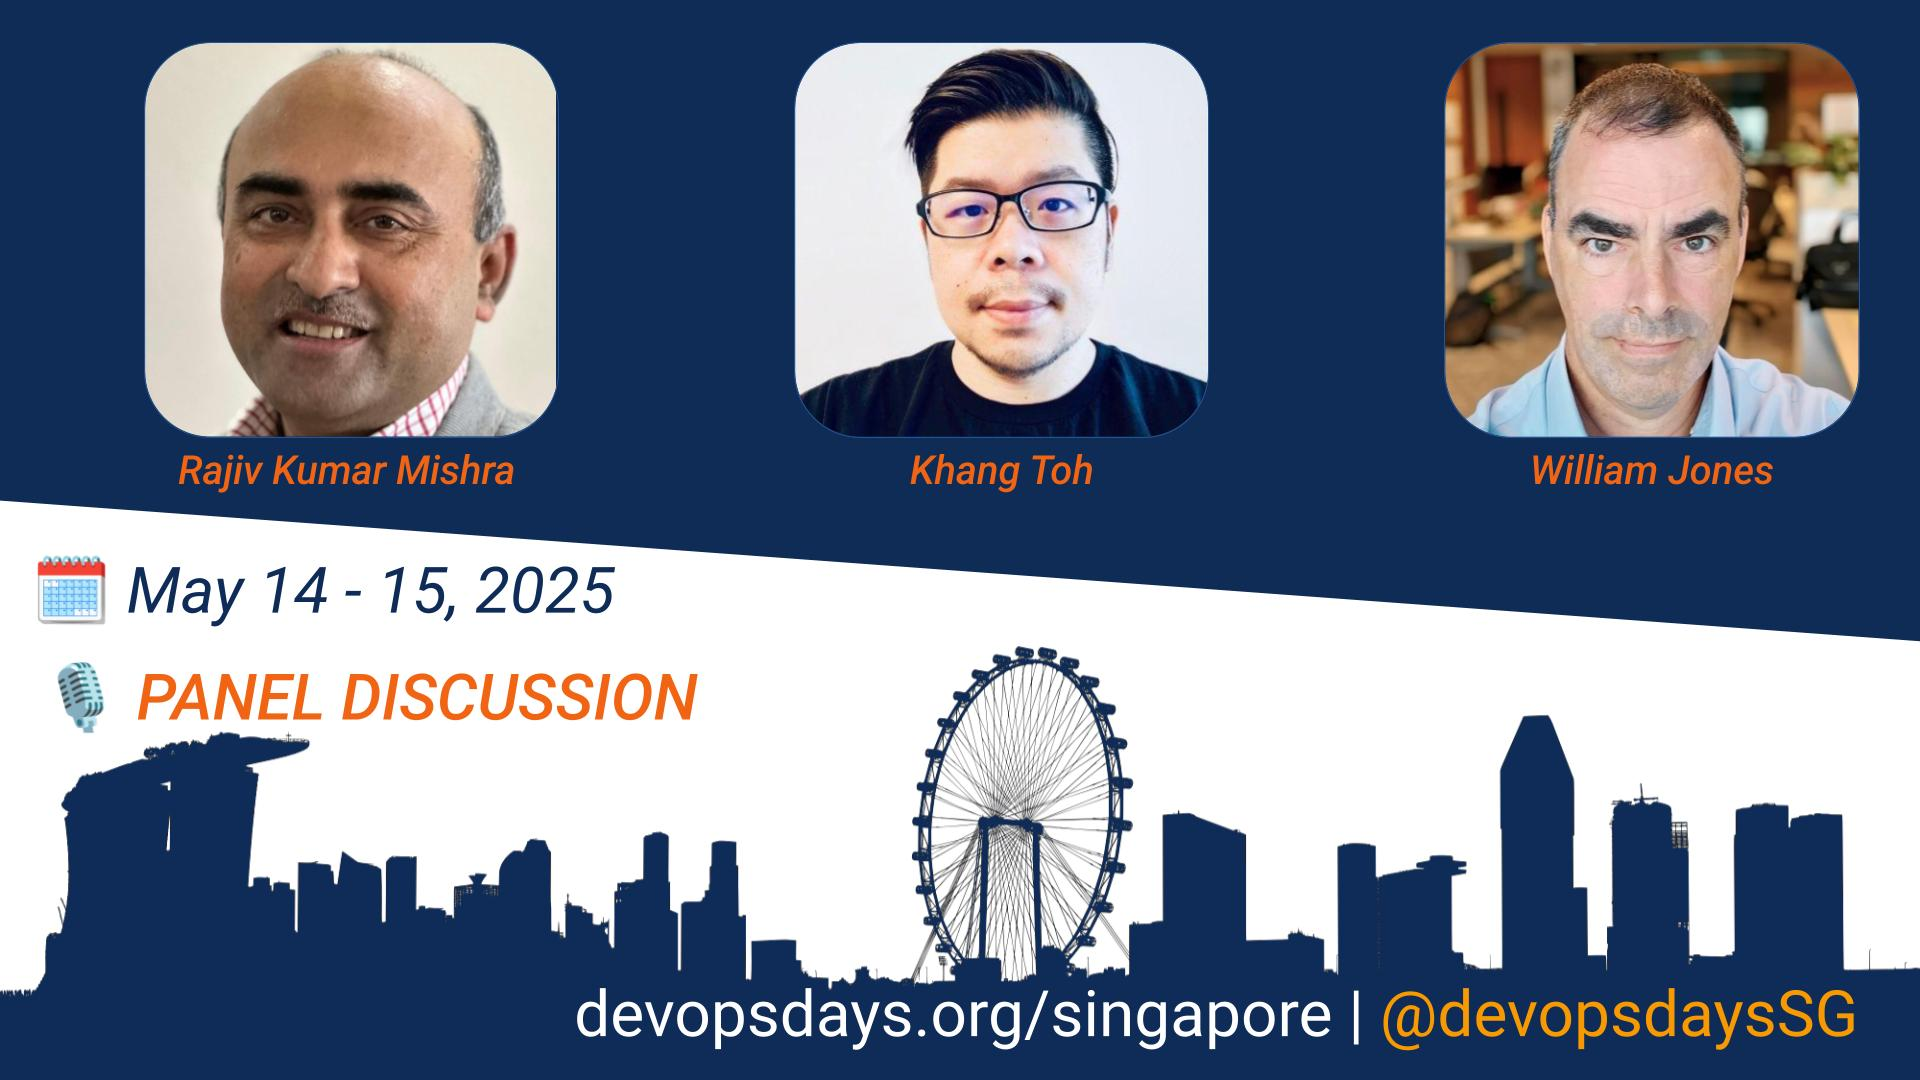
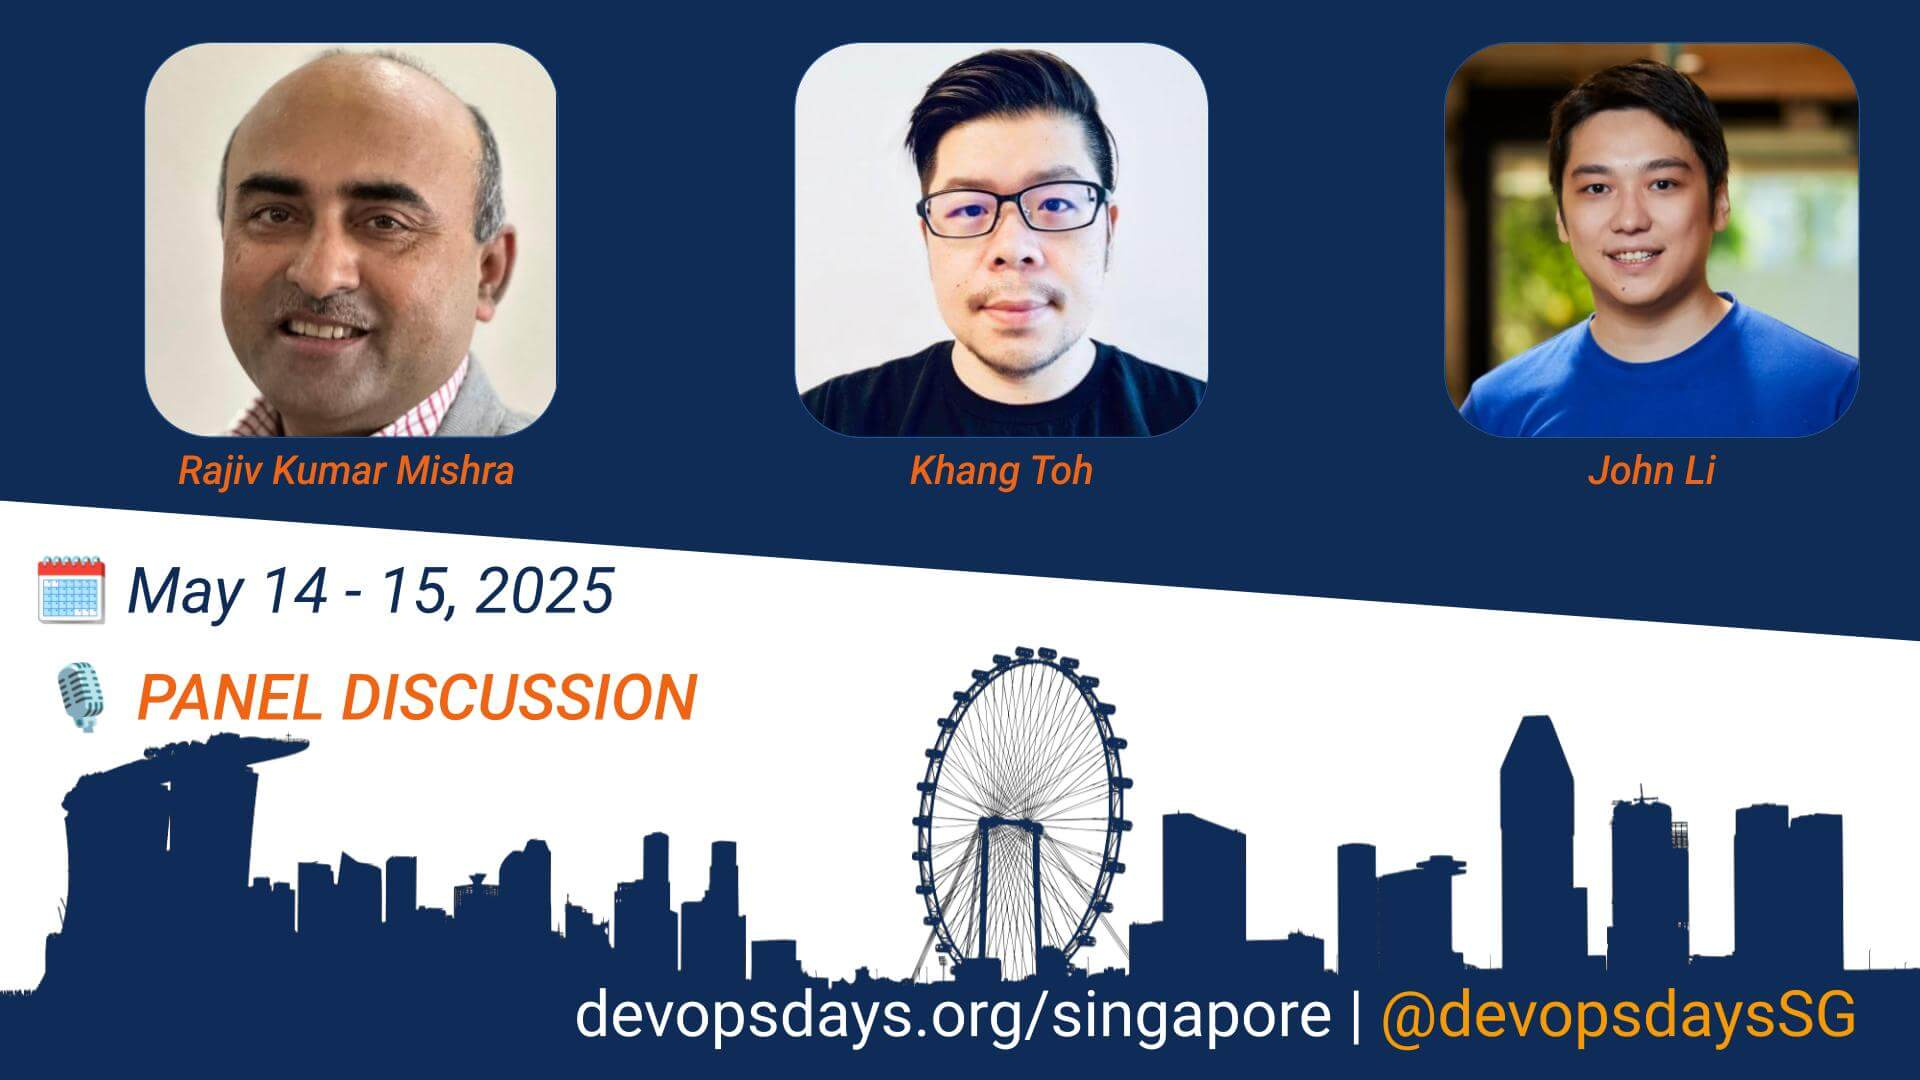
[SIN-25] urgent change in  panel discussion, replace william with john

diff --git a/content/events/2025-singapore/speakers/john-li.md b/content/events/2025-singapore/speakers/john-li.md
@@ -1,0 +1,13 @@
+
++++
+Title = "John Li"
+image = "john-li.jpg"
+Linkedin = "https://www.linkedin.com/in/john-li-zhuoran/"
+type = "speaker"
+linktitle = "john-li"
+
++++
+
+John Li is the Head of Client Technologies at Endowus, having spent nearly a decade building consumer-focused financial services. He is an inspirational and hands-on engineering leader who combines his strong product sense and technological skills to ensure that products and solutions are purpose-built to meet specific needs. His keen understanding of data analysis and marketing technology helps to guide crucial product strategies and decisions.
+
+Prior to joining Endowus, John worked at Goldman Sachs and StashAway, developing equity research and asset management solutions. 

diff --git a/content/events/2025-singapore/program/fintech-panel-discussion.md b/content/events/2025-singapore/program/fintech-panel-discussion.md
@@ -4,7 +4,7 @@ talk_start_time = ""
 talk_end_time = ""
 Title = "Panel Discussion"
 Type = "talk"
-Speakers = ["rajiv-kumar-mishra", "khang-toh", "william-jones"]
+Speakers = ["rajiv-kumar-mishra", "khang-toh", "john-li"]
 youtube = ""
 speakerdeck = ""
 sharing_image = "fintech-panel-discussion.jpg"
